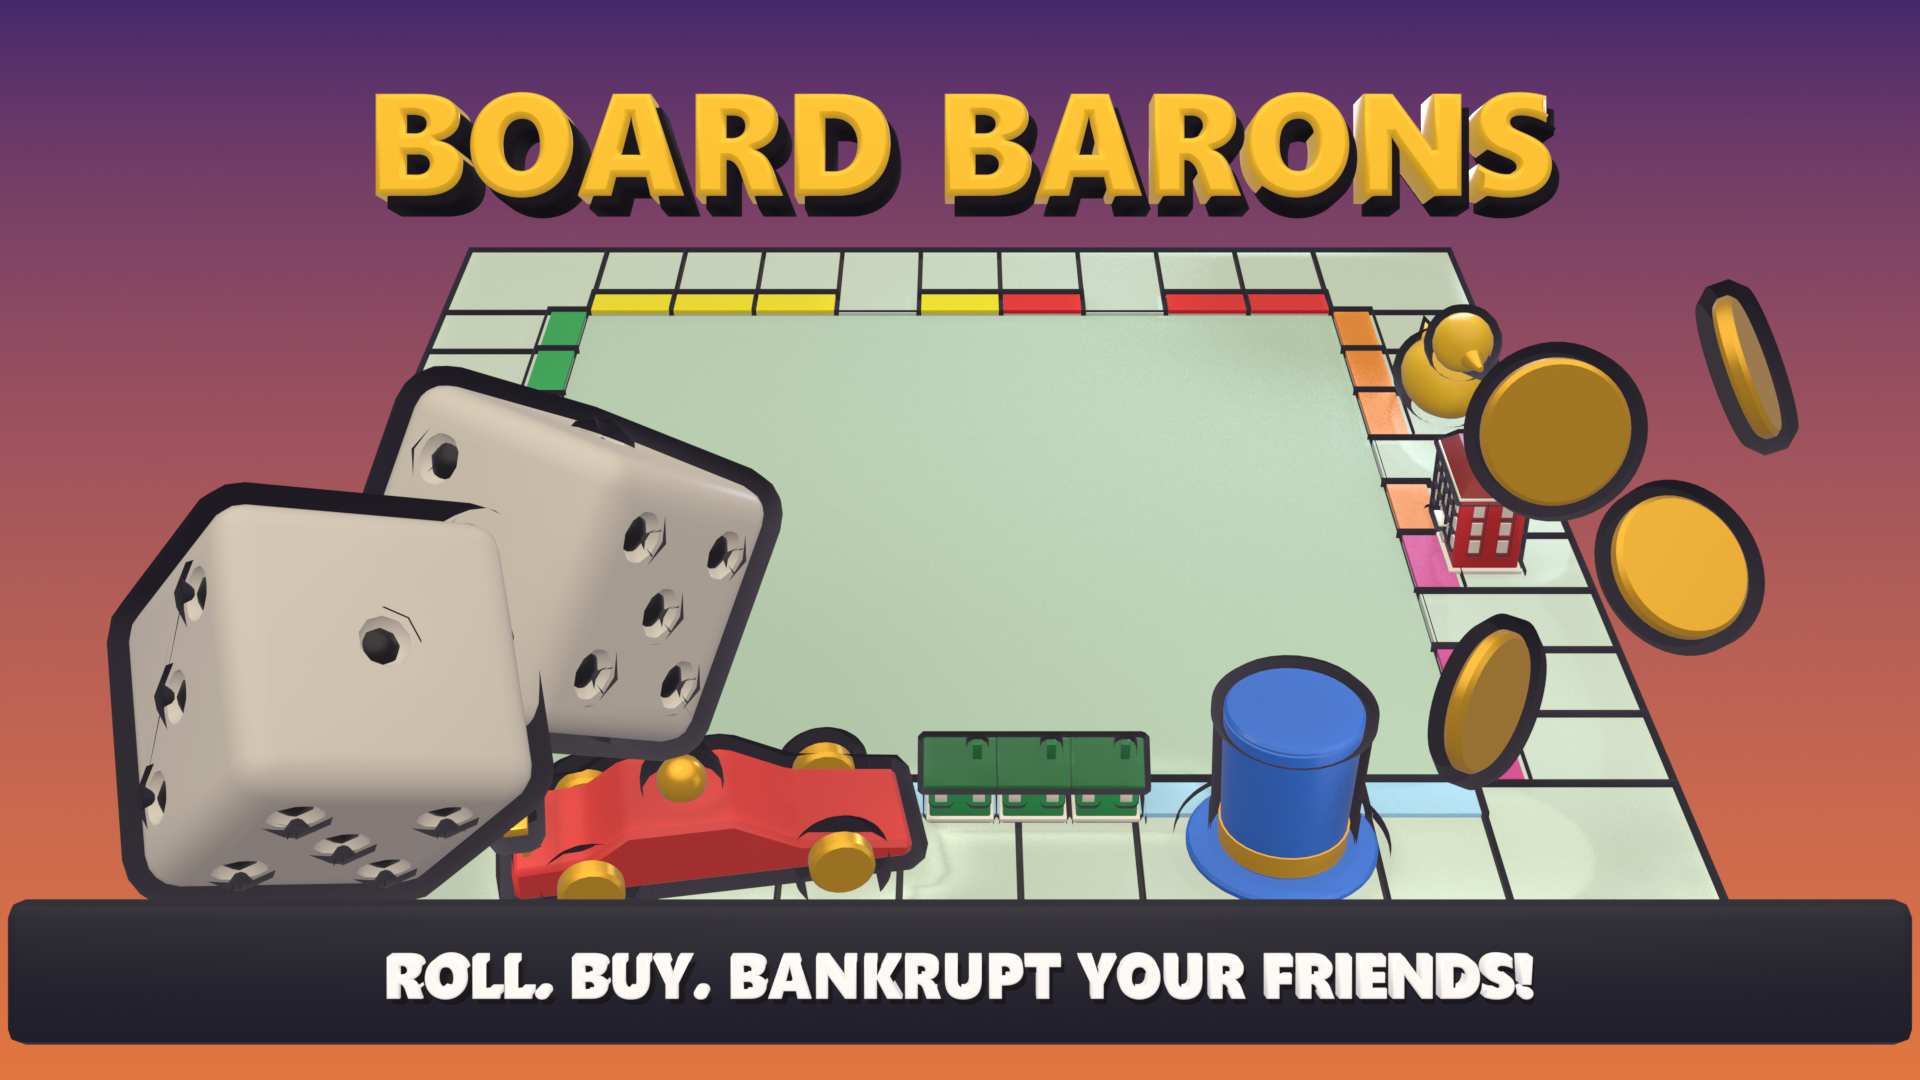
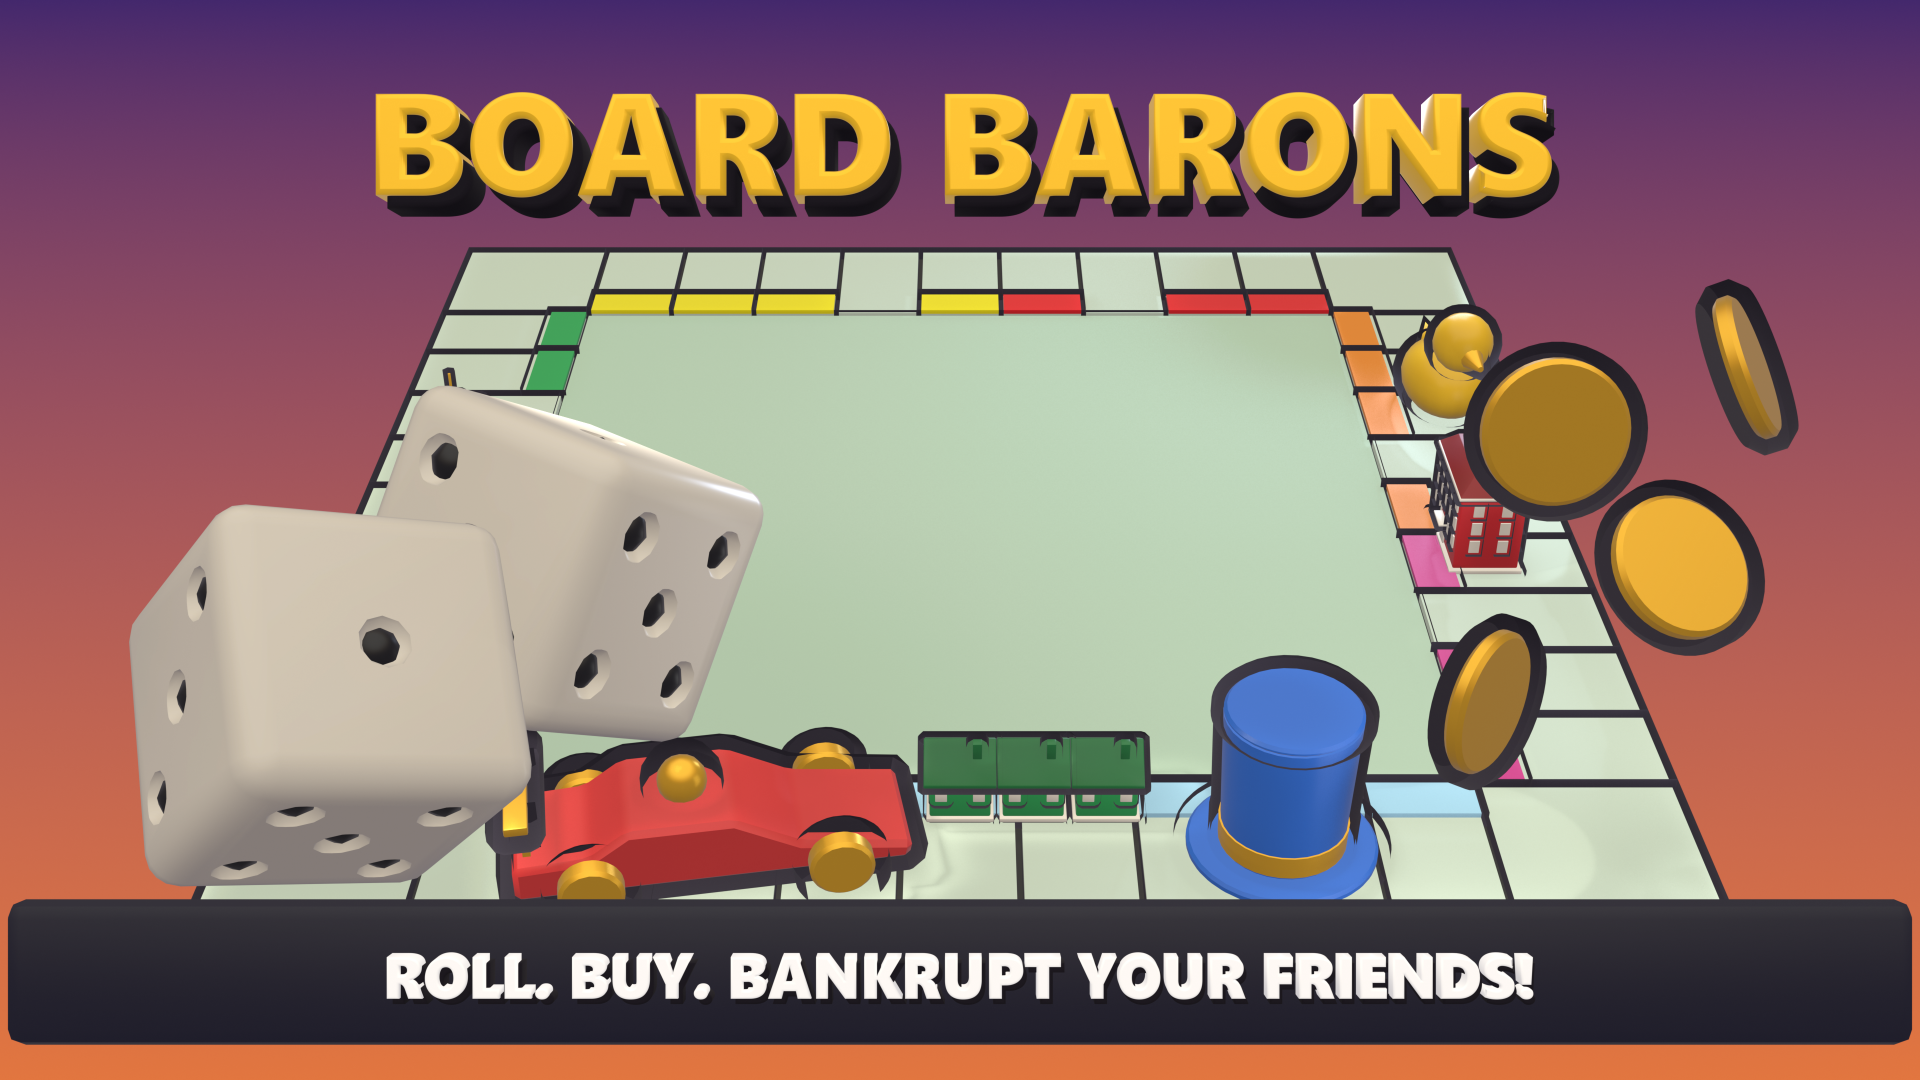
promo: supersampled renders (2x, 256 samples), no outline artifacts on the dice

Changed region(s): [[0.0312, 0.3667, 0.2812, 0.8556], [0.2188, 0.3361, 0.4062, 0.7028]]

diff --git a/tools/blender/promo_art.py b/tools/blender/promo_art.py
@@ -11,6 +11,7 @@ exec(open(r"C:\dev\Monopoly\tools\blender\product_art.py").read())
 
 PROMO_OUT = os.path.join(ROOT, "promo")
 TITLE = "BOARD BARONS"
+SUPERSAMPLE = 2 # render at twice the size, then shrink
 
 PLAYER_COLOURS = {
 	"Red": (232, 64, 64),
@@ -52,6 +53,8 @@ def building(stage, kind, height, base, yaw=0.0):
 
 def tumbling_die(stage, size, centre, tilt):
 	obs = import_model(stage, "Dice", "Rounded", {"Body": IVORY(), "Pips": INK(), "*": IVORY()})
+	for ob in obs:
+		ob["no_outline"] = True  # the outline shell shows through the pip holes
 	fit(obs, size, (0, 0, 0))
 	m = Matrix.Translation(Vector(centre) - Vector((0, 0, size / 2))) @ Matrix.Translation((0, 0, size / 2)) @ rx(tilt[0]) @ ry(tilt[1]) @ rz(tilt[2]) @ Matrix.Translation((0, 0, -size / 2))
 	for ob in obs:
@@ -333,6 +336,8 @@ def render_promo(names=None):
 	scene, stage = studio()
 	transparent = scene.render.film_transparent
 	scene.render.film_transparent = False
+	samples = scene.eevee.taa_render_samples
+	scene.eevee.taa_render_samples = 256
 	done = []
 	try:
 		for name in names or list(SHOTS):
@@ -344,14 +349,28 @@ def render_promo(names=None):
 			lo, hi = bounds(objects)
 			thickness = (hi - lo).length * 0.004
 			for ob in objects:
-				add_outline(ob, thickness)
+				if not ob.get("no_outline"):
+					add_outline(ob, thickness)
 			os.makedirs(PROMO_OUT, exist_ok=True)
-			scene.render.filepath = os.path.join(PROMO_OUT, name + ".png")
+			path = os.path.join(PROMO_OUT, name + ".png")
+			# Supersampled: rendered at SUPERSAMPLE times the size with extra samples, then shrunk, for
+			# clean edges and smooth light at the size Roblox shows.
+			scene.render.resolution_percentage = 100 * SUPERSAMPLE
+			scene.render.filepath = path
 			bpy.ops.render.render(write_still=True, scene=scene.name)
+			scene.render.resolution_percentage = 100
+			big = bpy.data.images.load(path, check_existing=False)
+			big.scale(width, height)
+			big.filepath_raw = path
+			big.file_format = "PNG"
+			big.save()
+			bpy.data.images.remove(big)
 			done.append(name)
 	finally:
 		scene.render.film_transparent = transparent
 		scene.render.resolution_x = SIZE
 		scene.render.resolution_y = SIZE
 		scene.camera.data.lens = 85
+		scene.render.resolution_percentage = 100
+		scene.eevee.taa_render_samples = samples
 	return done
